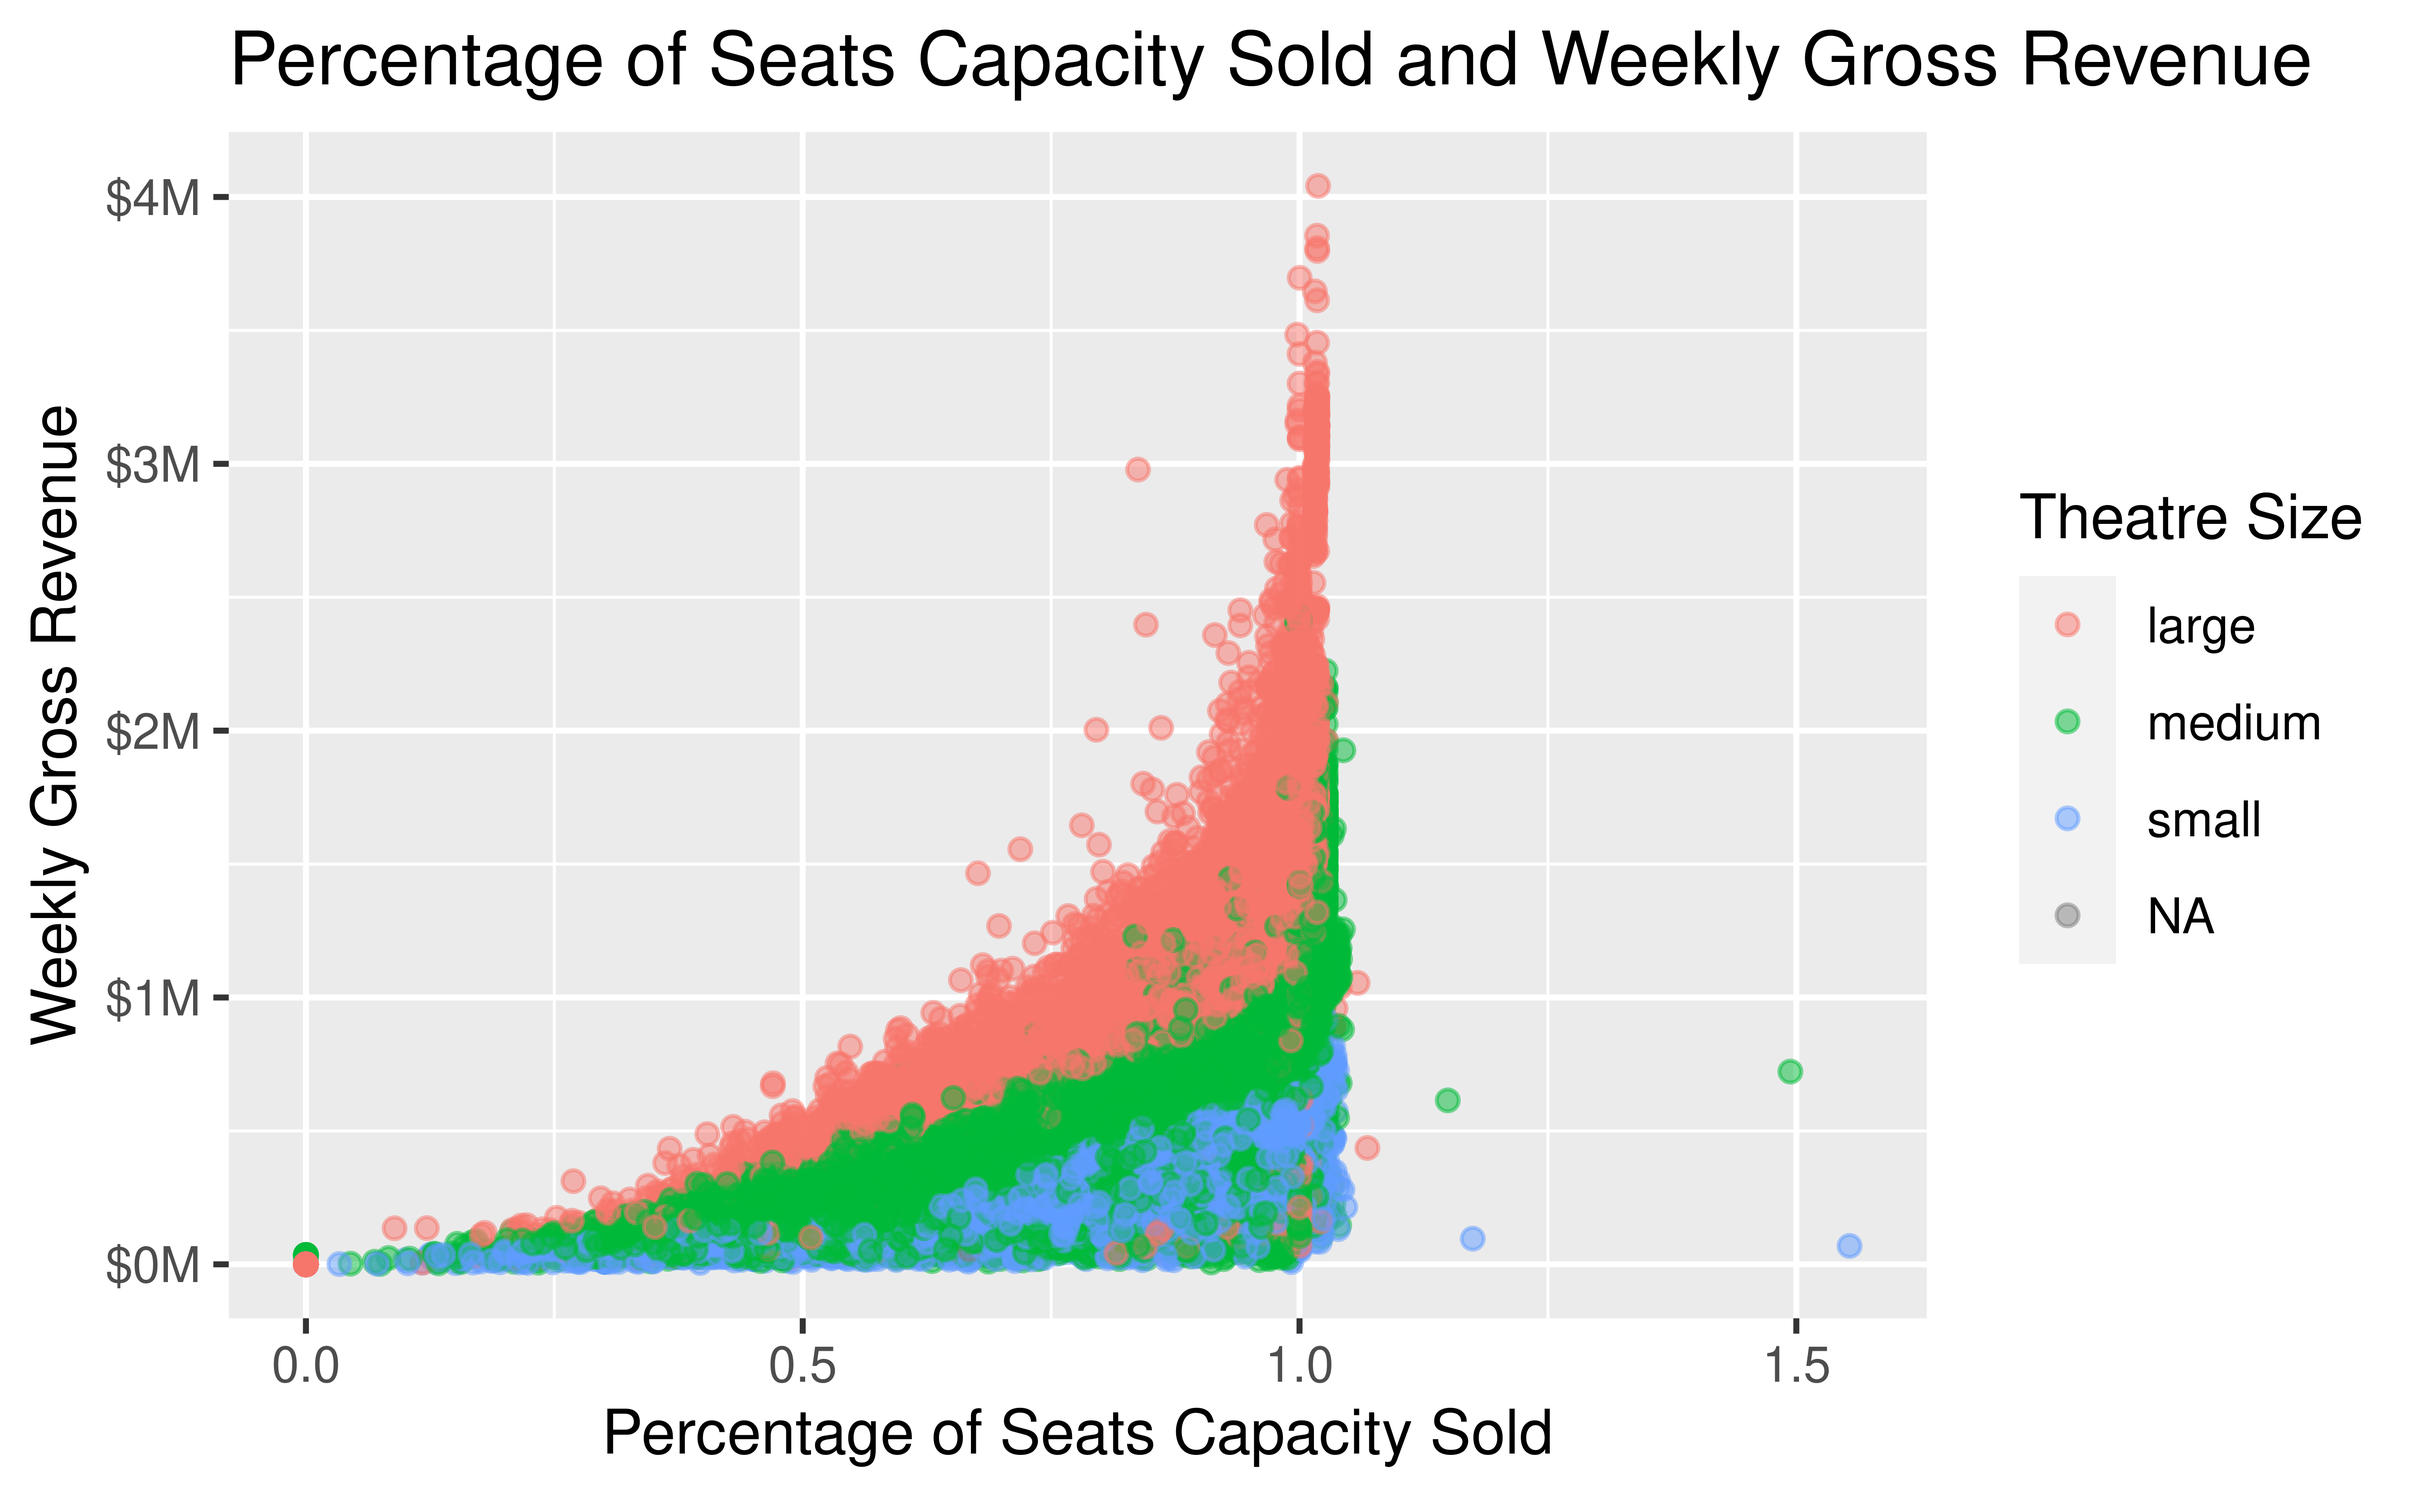
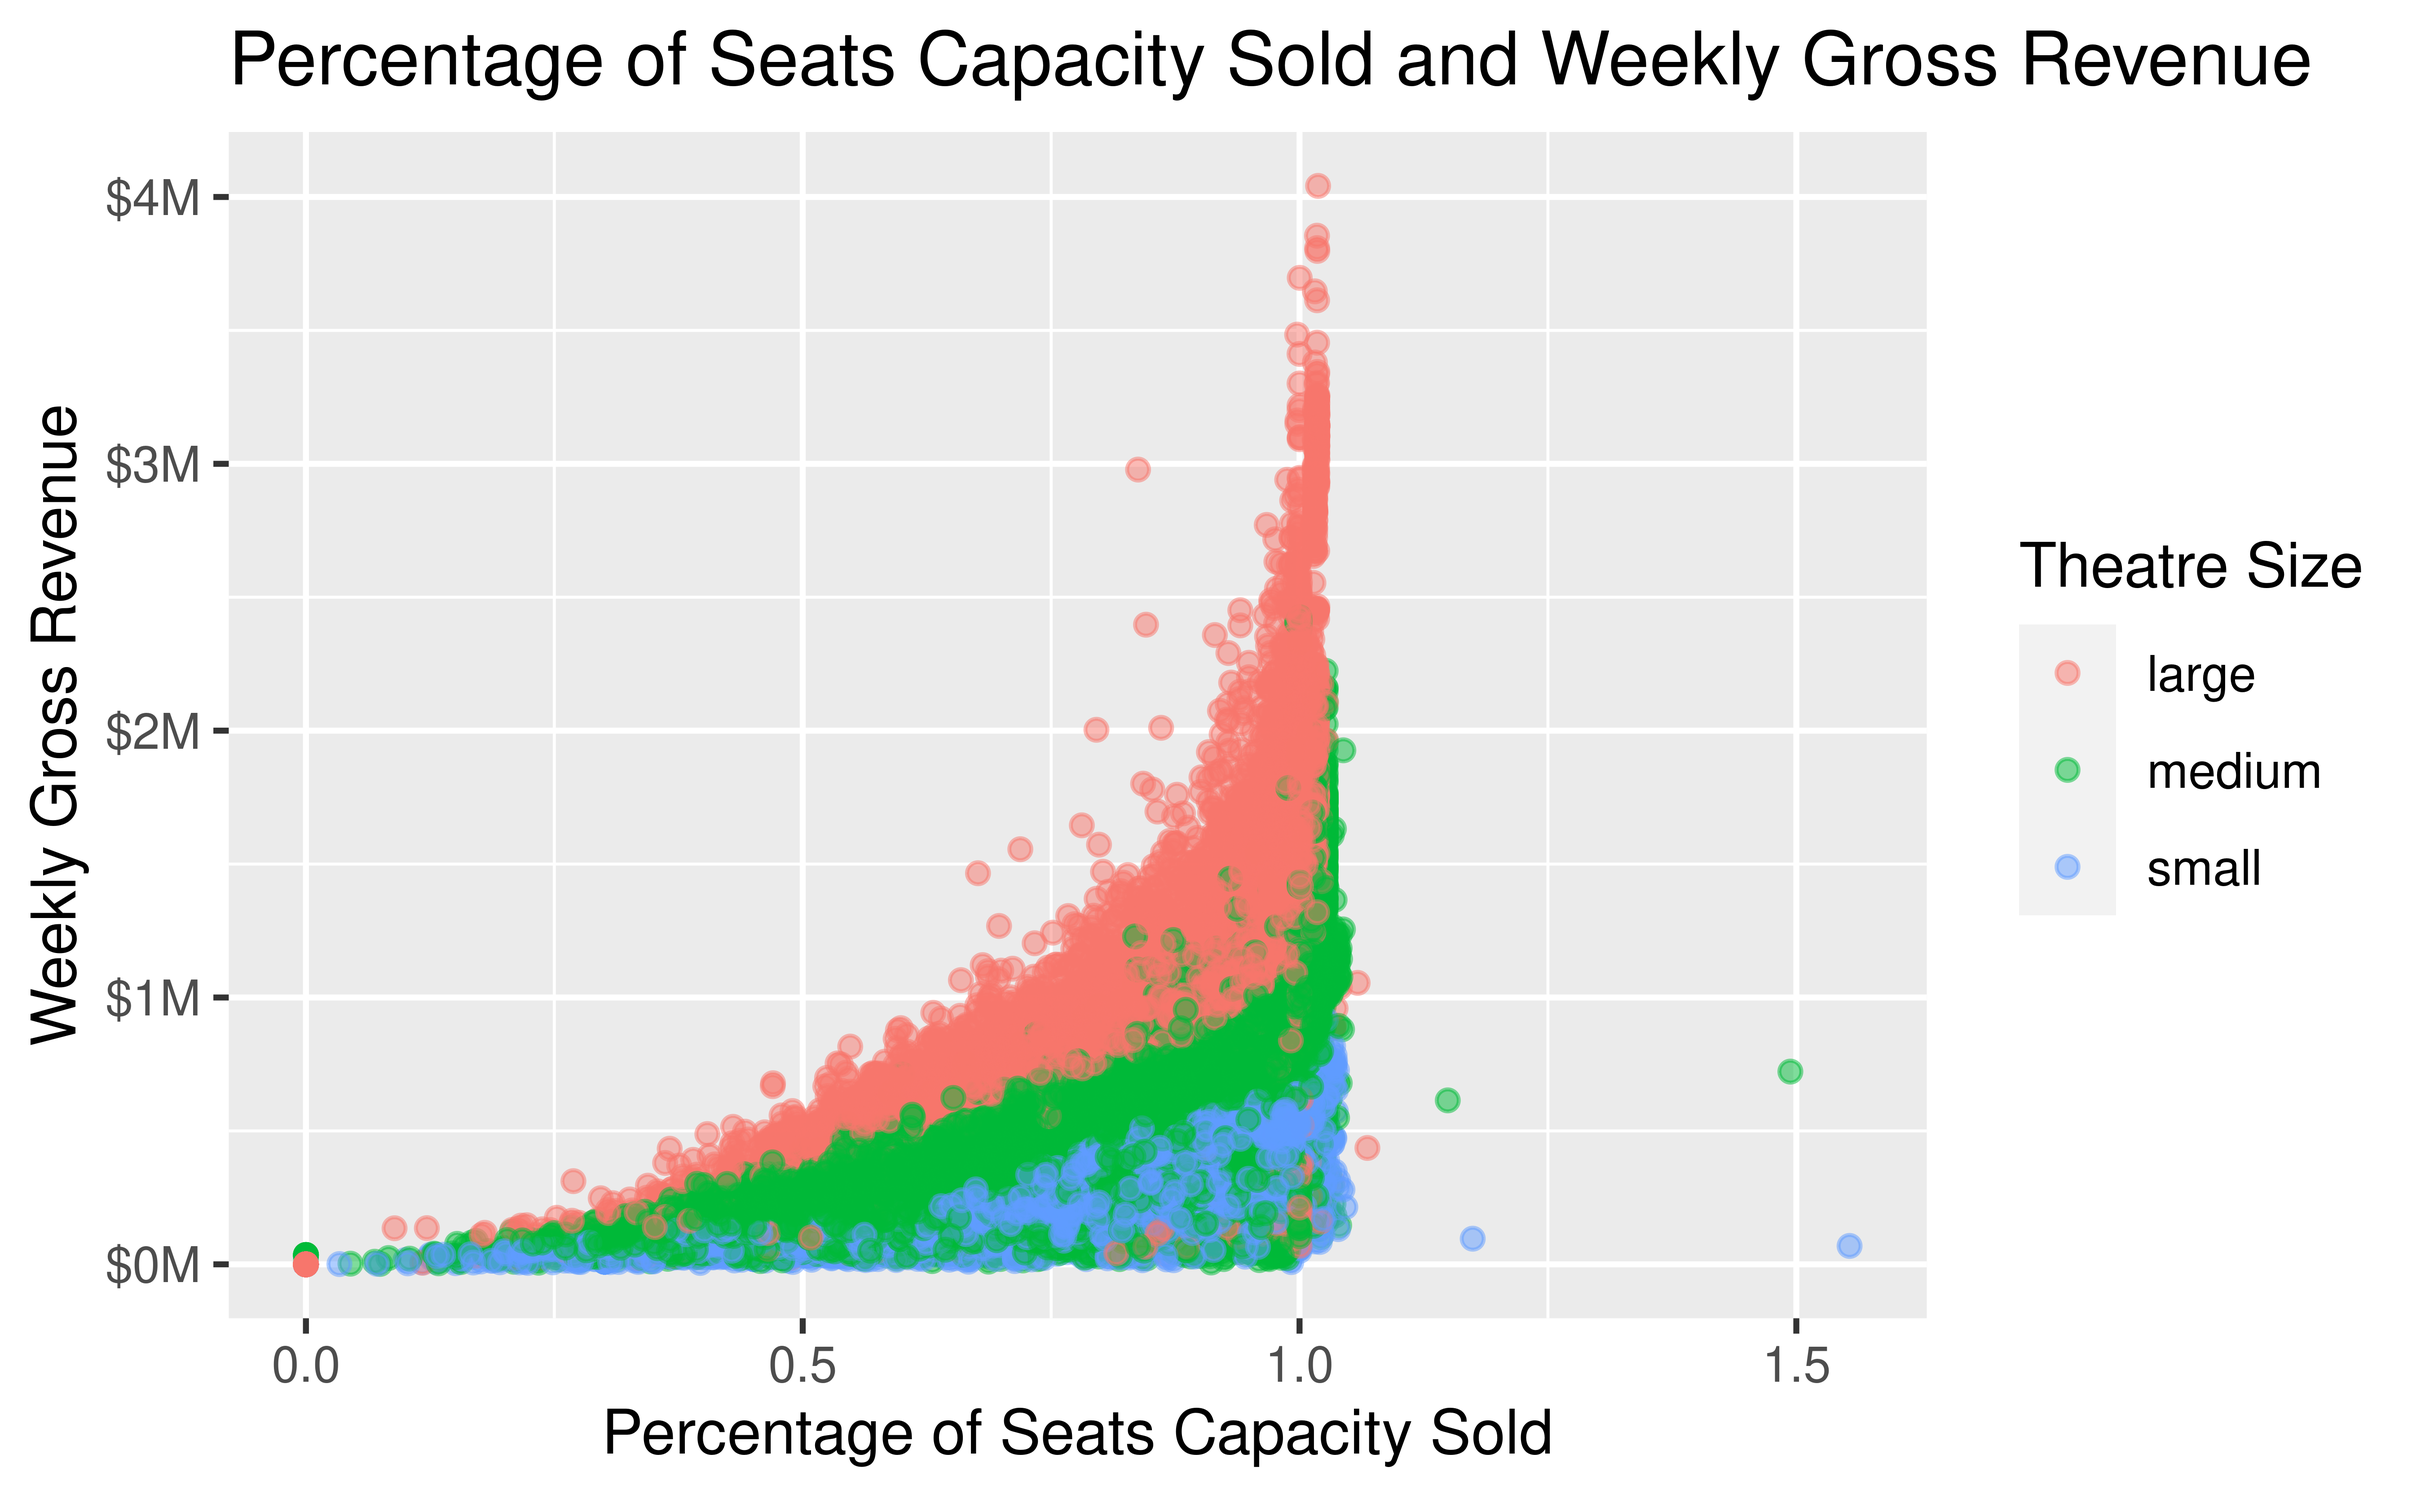
Presentation update

Changed region(s): [[0.84, 0.3117, 0.9956, 0.6233]]

diff --git a/presentation/presentation.html b/presentation/presentation.html
@@ -4,8 +4,7 @@
   <meta charset="utf-8">
   <meta name="generator" content="pandoc">
   <meta name="author" content="team   Felix, Jeni, Janet" />
-  <meta name="dcterms.date" content="2021-11-26" />
->>>>>>> bafd5a11b18443dea485460c7e8b831c1ce2bc2d
+  <meta name="dcterms.date" content="2021-11-28" />
   <title>Maximising Profits for Broadway Theatres</title>
   <meta name="apple-mobile-web-app-capable" content="yes">
   <meta name="apple-mobile-web-app-status-bar-style" content="black-translucent">
@@ -137,11 +136,7 @@
   <h1 class="title">Maximising Profits for Broadway Theatres</h1>
   <h2 class="author"><font size='8'>team <br> Felix, Jeni, Janet</font></h2>
   <h3 class="institute"><font size='10'>University of Edinburgh</font></h2>
-<<<<<<< HEAD
-  <h3 class="date"><font size = '6'>2021-11-27</font></h3>
-=======
-  <h3 class="date"><font size = '6'>2021-11-26</font></h3>
->>>>>>> bafd5a11b18443dea485460c7e8b831c1ce2bc2d
+  <h3 class="date"><font size = '6'>2021-11-28</font></h3>
 </section>
 
 <section id="dataset" class="title-slide slide level1">
@@ -194,7 +189,6 @@ What are the factors that can affect the average ticket price of a show?
 
 <section id="mutate-theatre-size" class="title-slide slide level1">
 <h1>MUTATE Theatre Size</h1>
-<<<<<<< HEAD
 <ul>
 <li>
 less than 750 seats = small
@@ -207,17 +201,6 @@ more than 1300 = large
 </li>
 </ul>
 <p><img src="presentation_files/figure-revealjs/density-theatre-size-1.png" width="80%" /></p>
-</div>
-</div>
-=======
-<div class="sourceCode" id="cb3"><pre class="sourceCode r"><code class="sourceCode r"><span id="cb3-1"><a href="#cb3-1" aria-hidden="true" tabindex="-1"></a>grosses_size <span class="ot">&lt;-</span> grosses <span class="sc">%&gt;%</span></span>
-<span id="cb3-2"><a href="#cb3-2" aria-hidden="true" tabindex="-1"></a>  <span class="fu">mutate</span>(<span class="at">theatre_size =</span> (<span class="fu">case_when</span>(</span>
-<span id="cb3-3"><a href="#cb3-3" aria-hidden="true" tabindex="-1"></a>    seats_in_theatre <span class="sc">&lt;</span> <span class="dv">750</span> <span class="sc">~</span> <span class="st">&quot;small&quot;</span>,</span>
-<span id="cb3-4"><a href="#cb3-4" aria-hidden="true" tabindex="-1"></a>    seats_in_theatre <span class="sc">&lt;</span> <span class="dv">1300</span> <span class="sc">&amp;</span> seats_in_theatre <span class="sc">&gt;</span> <span class="dv">750</span> <span class="sc">~</span> <span class="st">&quot;medium&quot;</span>,</span>
-<span id="cb3-5"><a href="#cb3-5" aria-hidden="true" tabindex="-1"></a>    seats_in_theatre <span class="sc">&gt;</span> <span class="dv">1299</span> <span class="sc">~</span> <span class="st">&quot;large&quot;</span>)</span>
-<span id="cb3-6"><a href="#cb3-6" aria-hidden="true" tabindex="-1"></a>  )</span>
-<span id="cb3-7"><a href="#cb3-7" aria-hidden="true" tabindex="-1"></a>  )</span></code></pre></div>
->>>>>>> bafd5a11b18443dea485460c7e8b831c1ce2bc2d
 </section>
 
 <section id="gross-weekly-revenue-1" class="title-slide slide level1">
@@ -228,17 +211,6 @@ more than 1300 = large
 <section>
 <section id="percentage-capacity-vs-weekly-gross" class="title-slide slide level1">
 <h1>Percentage Capacity vs Weekly Gross</h1>
-<<<<<<< HEAD
-=======
-<div class="sourceCode" id="cb4"><pre class="sourceCode r"><code class="sourceCode r"><span id="cb4-1"><a href="#cb4-1" aria-hidden="true" tabindex="-1"></a>counting <span class="ot">&lt;-</span> grosses_size <span class="sc">%&gt;%</span></span>
-<span id="cb4-2"><a href="#cb4-2" aria-hidden="true" tabindex="-1"></a>  <span class="fu">mutate</span>(<span class="at">theatre_show =</span> <span class="fu">paste0</span>(theatre, show)) <span class="sc">%&gt;%</span></span>
-<span id="cb4-3"><a href="#cb4-3" aria-hidden="true" tabindex="-1"></a>  <span class="fu">group_by</span>(theatre_show) <span class="sc">%&gt;%</span></span>
-<span id="cb4-4"><a href="#cb4-4" aria-hidden="true" tabindex="-1"></a>  <span class="fu">mutate</span>(<span class="at">week_running =</span> <span class="fu">n</span>())</span></code></pre></div>
-</section>
-
-<section id="percentage-capacity-and-weekly-gross" class="title-slide slide level1">
-<h1>Percentage Capacity and Weekly Gross</h1>
->>>>>>> bafd5a11b18443dea485460c7e8b831c1ce2bc2d
 <p><img src="presentation_files/figure-revealjs/pctcapacity-weeklygross-1.png" width="80%" /></p>
 <p style="font-size:20px">
 # Main Question: Average Price vs Weekly Gross
@@ -252,17 +224,14 @@ more than 1300 = large
 <span id="cb3-7"><a href="#cb3-7" aria-hidden="true" tabindex="-1"></a>       <span class="at">y =</span> <span class="st">&quot;Gross Weekly Revenue&quot;</span>) <span class="sc">+</span></span>
 <span id="cb3-8"><a href="#cb3-8" aria-hidden="true" tabindex="-1"></a>  <span class="fu">scale_y_continuous</span>(<span class="at">labels =</span> <span class="fu">label_dollar</span>(<span class="at">suffix =</span> <span class="st">&quot;M&quot;</span>, <span class="at">scale =</span> <span class="fl">1e-6</span>))</span></code></pre></div>
 <p><img src="presentation_files/figure-revealjs/avg-price-weekly-gross1-1.png" width="80%" /></p>
-<<<<<<< HEAD
-=======
-</section>
-
-<section id="hello-world" class="title-slide slide level1">
-<h1>Hello World</h1>
-<ul>
-<li><p>Click the <code>Knit</code> button to compile your presentation</p></li>
-<li><p>Make sure to commit and push all resulting files to your GitHub repo</p></li>
-</ul>
->>>>>>> bafd5a11b18443dea485460c7e8b831c1ce2bc2d
+<p>#Number of Performances per Week</p>
+<div class="sourceCode" id="cb4"><pre class="sourceCode r"><code class="sourceCode r"><span id="cb4-1"><a href="#cb4-1" aria-hidden="true" tabindex="-1"></a>counting <span class="sc">%&gt;%</span></span>
+<span id="cb4-2"><a href="#cb4-2" aria-hidden="true" tabindex="-1"></a>  <span class="fu">ggplot</span>(<span class="fu">aes</span>(<span class="at">x =</span> performances, <span class="at">y =</span> weekly_gross))<span class="sc">+</span></span>
+<span id="cb4-3"><a href="#cb4-3" aria-hidden="true" tabindex="-1"></a>  <span class="fu">geom_point</span>()<span class="sc">+</span></span>
+<span id="cb4-4"><a href="#cb4-4" aria-hidden="true" tabindex="-1"></a>  <span class="fu">labs</span>(<span class="at">x =</span> <span class="st">&quot;Number of Performances per Week&quot;</span>, <span class="at">y =</span> <span class="st">&quot;Weekly Gross Revenue&quot;</span>,</span>
+<span id="cb4-5"><a href="#cb4-5" aria-hidden="true" tabindex="-1"></a>       <span class="at">title =</span> <span class="st">&quot;Number of Performances per Week and Weekly Gross Revenue&quot;</span>)<span class="sc">+</span></span>
+<span id="cb4-6"><a href="#cb4-6" aria-hidden="true" tabindex="-1"></a>  <span class="fu">scale_y_continuous</span>(<span class="at">labels =</span> <span class="fu">label_dollar</span>(<span class="at">suffix =</span> <span class="st">&quot;M&quot;</span>, <span class="at">scale =</span> <span class="fl">1e-6</span>))</span></code></pre></div>
+<p><img src="presentation_files/figure-revealjs/performances-per-wk-revenue-1.png" width="80%" /></p>
 <p style="font-family:verdana">
 This is a paragraph.
 </p>

diff --git a/presentation/xaringan_template/presentation.html b/presentation/xaringan_template/presentation.html
@@ -4,7 +4,7 @@
     <title>Presentation title</title>
     <meta charset="utf-8" />
     <meta name="author" content="Team name   Names of team members" />
-    <meta name="date" content="2021-10-19" />
+    <meta name="date" content="2021-11-28" />
     <script src="libs/header-attrs-2.11/header-attrs.js"></script>
     <link rel="stylesheet" href="xaringan-themer.css" type="text/css" />
   </head>
@@ -16,7 +16,7 @@ class: center, middle, inverse, title-slide
 ## Presentation subtitle (if any)
 ### Team name <br> Names of team members
 ### University of Edinburgh
-### 2021-10-19
+### 2021-11-28
 
 ---
 
